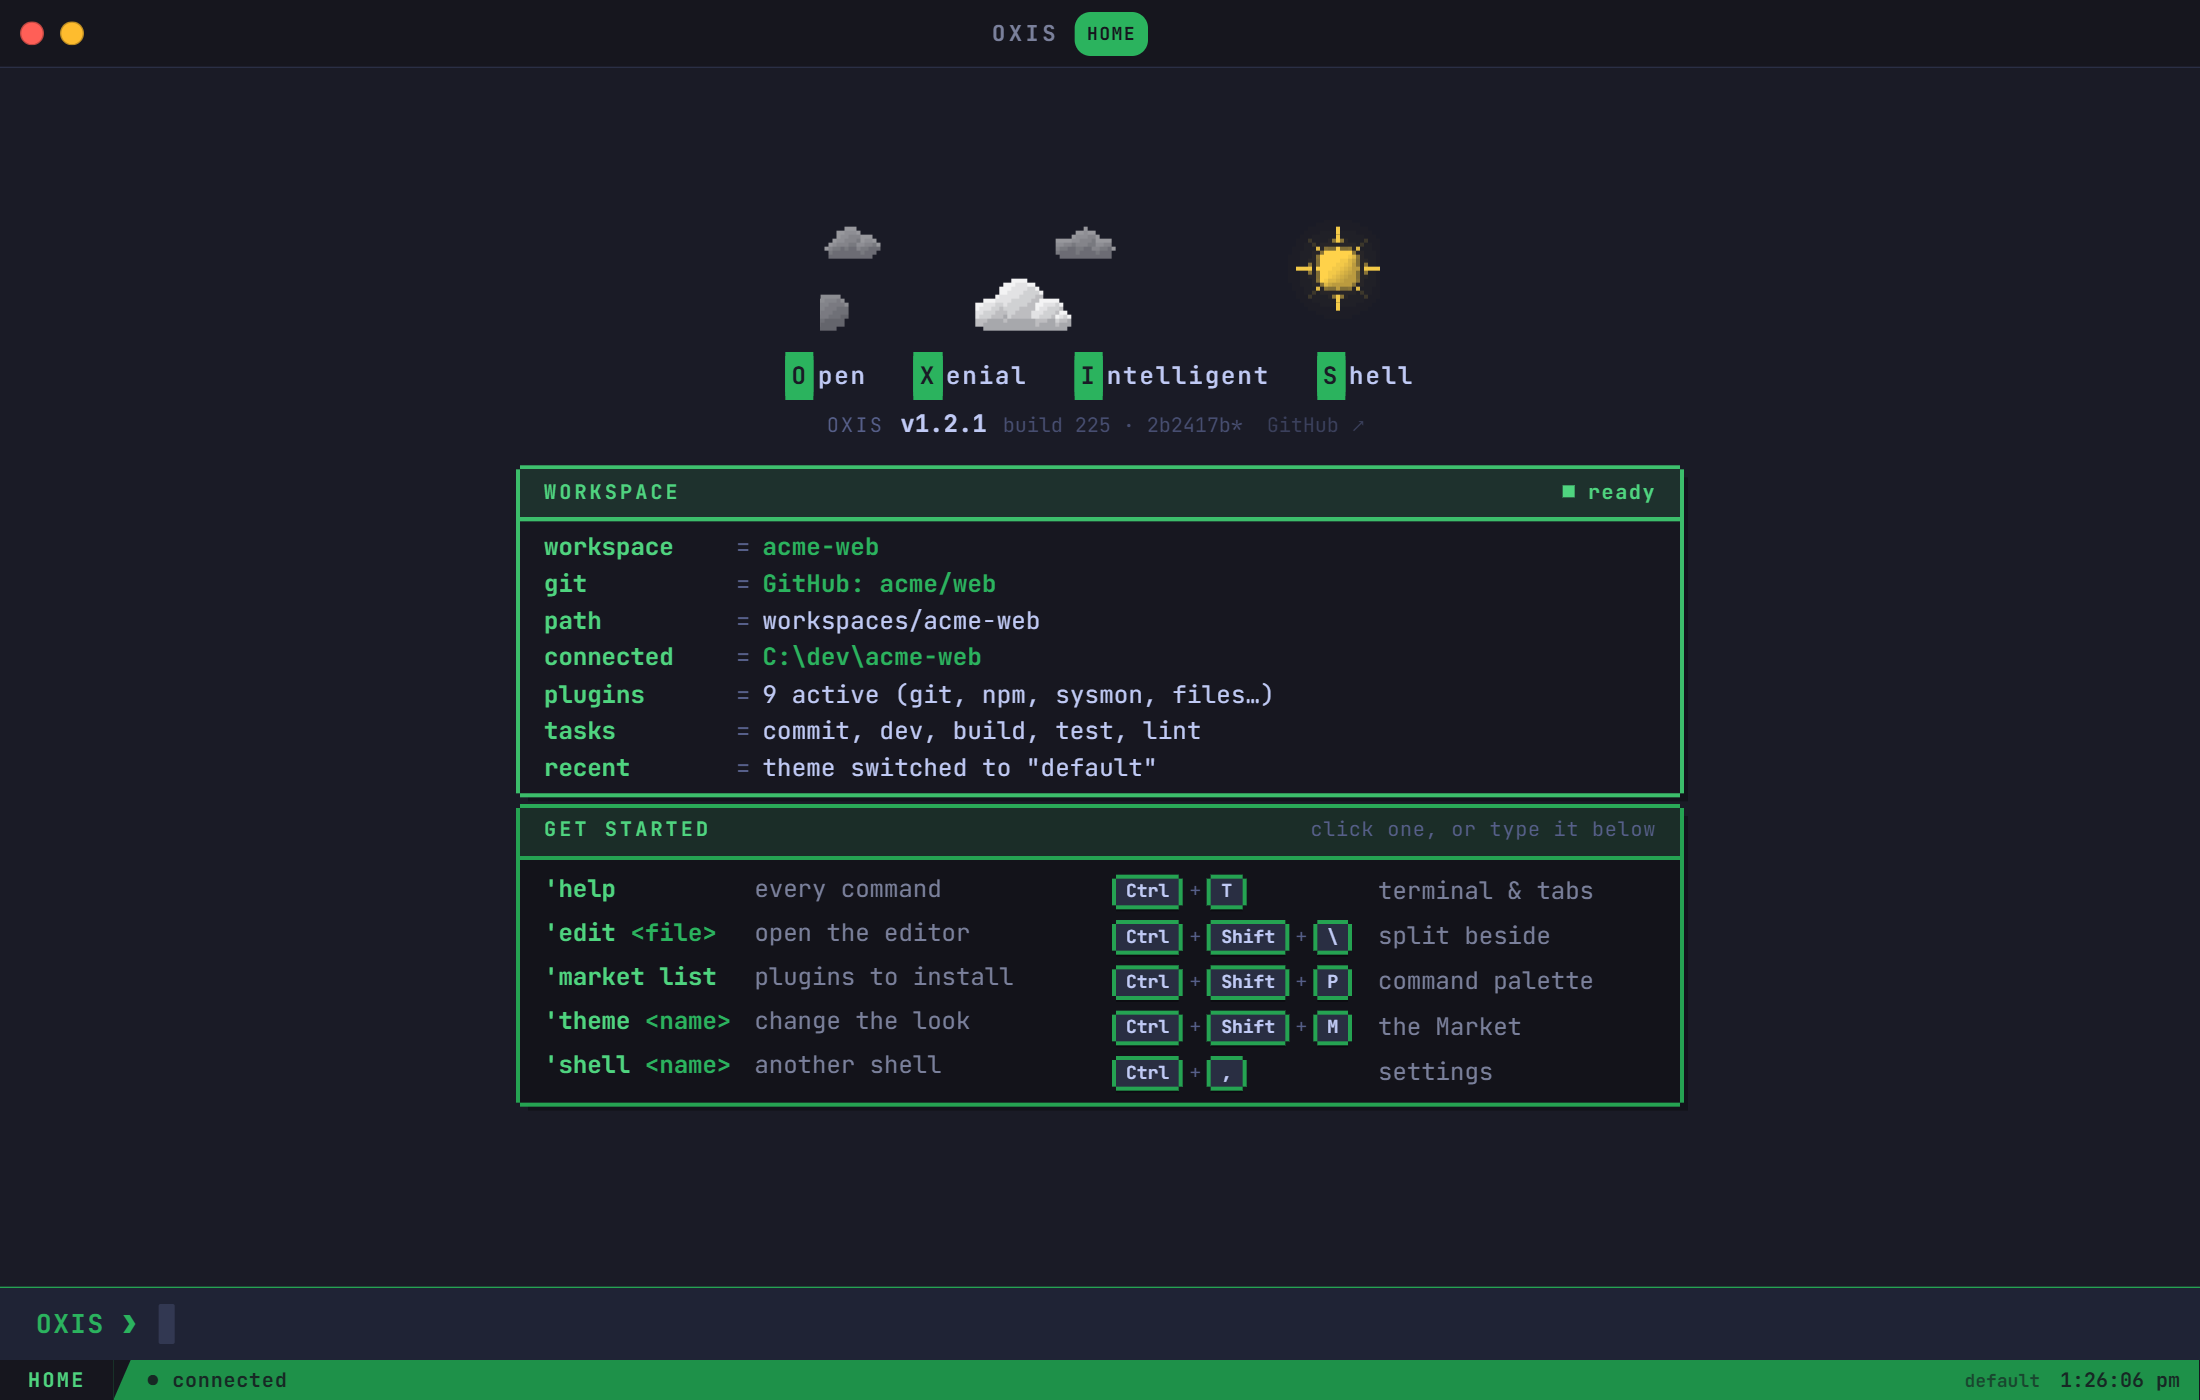
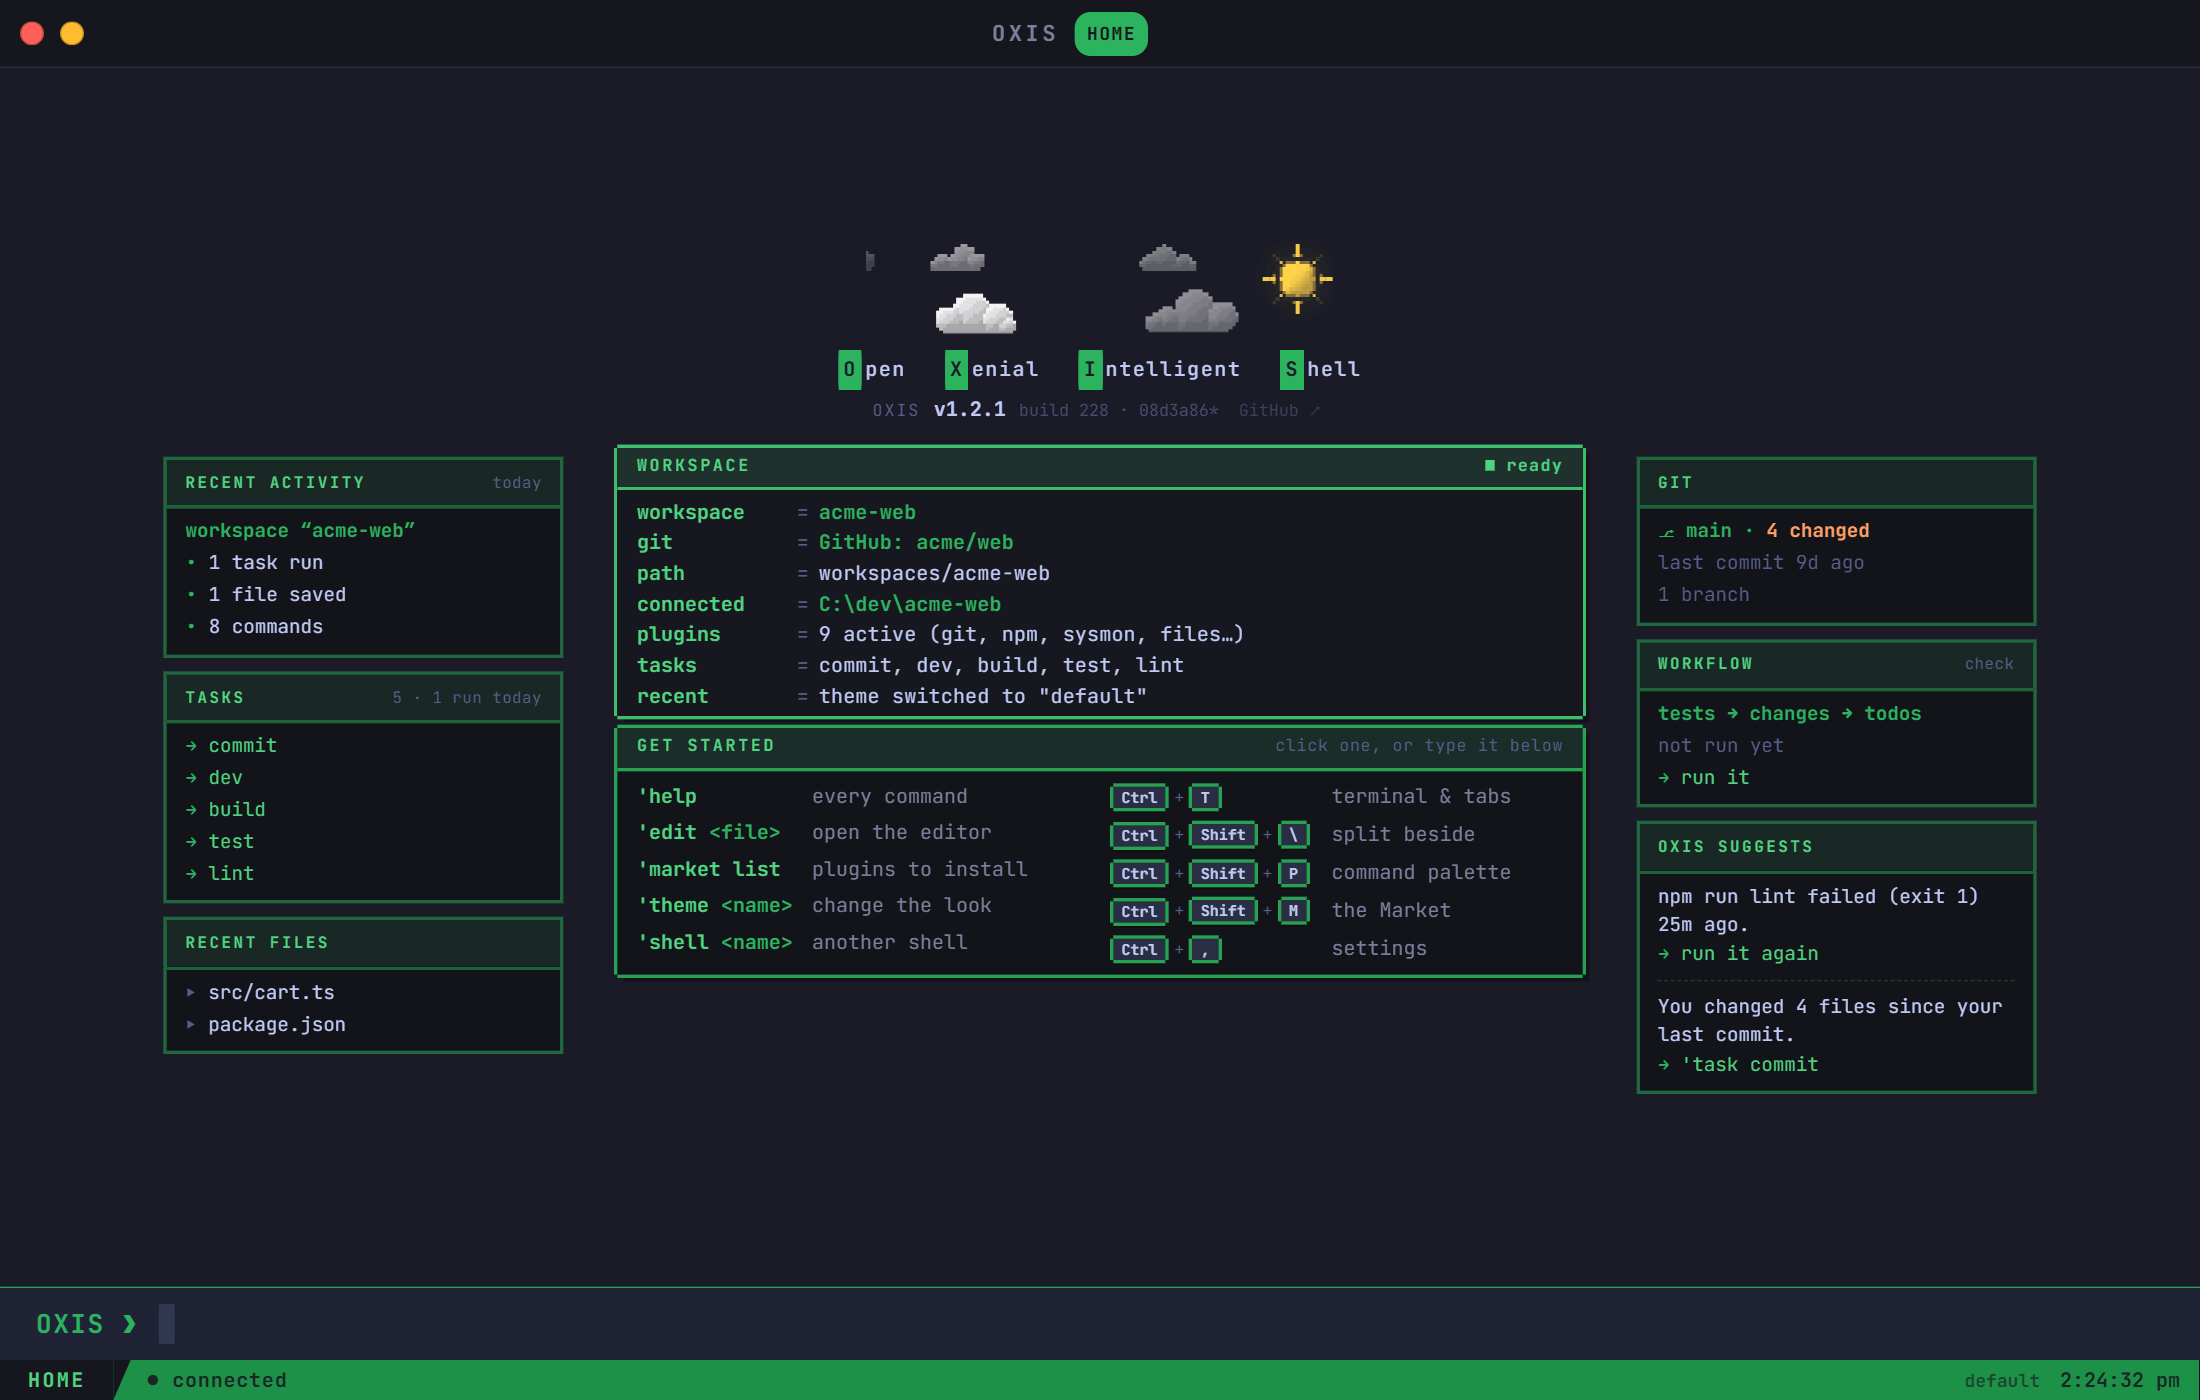
Home keeps some air around its insight cards; demo and screenshots show them

diff --git a/cloudflare/index.html b/cloudflare/index.html
@@ -1855,8 +1855,8 @@ $('#codeCopy').addEventListener('click', async e => {
 });
 
 const SHOTS = [
-  ['demo', 'Recorded', 'Recorded from the app, not mocked up: Home under its pixel-art sky, git in the real shell, quick select copying a hash with two keys, the editor catching a mistake and finishing a name, Vim keys and the file tree, a split with the tests passing and one command broadcast to both panes, an image in the output, triggers lighting up the log lines that matter, games that animate and ask, live monitoring stopped with Ctrl+C, the Settings window, and a theme switch.', 102000],
-  ['app-home', 'Home', 'Home: the active workspace, its git remote, plugins and tasks at a glance, under a pixel-art sky.'],
+  ['demo', 'Recorded', 'Recorded from the app, not mocked up: Home under its pixel-art sky with its insight cards, git in the real shell, quick select copying a hash with two keys, the editor catching a mistake and finishing a name, Vim keys and the file tree, a split with the tests passing and one command broadcast to both panes, an image in the output, triggers lighting up the log lines that matter, games that animate and ask, live monitoring stopped with Ctrl+C, the Settings window, and a theme switch.', 102000],
+  ['app-home', 'Home', 'Home: the active workspace under a pixel-art sky, with insight cards that follow it — today's activity, tasks and recent files; Git, the workflow and what OXIS suggests next.'],
   ['app-prompt', 'Prompt', "Tab completes in any shell — here cmd listing the npm scripts and finishing a folder — history suggests the rest of a command as you type, and right-clicking + opens a tab with another shell."],
   ['app-panes', 'Split panes', 'Tabs and split panes: git on the left, the tests on the right, each its own shell. New ones open in the folder you are in.'],
   ['app-search', 'Search', 'Search in files (Ctrl+Shift+F): every match in the project, grouped by file.'],

diff --git a/frontend/src/App.tsx b/frontend/src/App.tsx
@@ -8366,10 +8366,13 @@ function Home({ currentTheme, onTheme, onOpenThemeEditor, onOpenPluginCreator, o
       const roomW = box.clientWidth - parseFloat(style.paddingLeft) - parseFloat(style.paddingRight);
       if (!natural || room <= 0) return;
       const sides = !!inner.querySelector(".ins-col");
-      const stack = sides && roomW < HOME_WIDE * 0.8;
+      const stack = sides && roomW * 0.88 < HOME_WIDE * 0.78;
       setStacked(s => (s !== stack ? stack : s));
       const wide = !sides ? Infinity : stack ? HOME_NARROW : HOME_WIDE;
-      const next = Math.max(0.6, Math.min(1, room / natural, roomW / wide));
+      // With the cards, keep some air around it rather than filling the
+      // window edge to edge.
+      const air = sides ? 0.88 : 1;
+      const next = Math.max(0.6, Math.min(1, room * (sides ? 0.95 : 1) / natural, roomW * air / wide));
       setFit(f => (Math.abs(f - next) > 0.01 ? next : f));
     };
     measure();

diff --git a/README.md b/README.md
@@ -40,7 +40,7 @@
 
 <br><br>
 
-<img src="assets/demo.gif" width="100%" alt="A real OXIS session: Home under a pixel-art sun and drifting clouds; git log and status in the real shell, then quick select labelling the hashes and paths on screen and copying one; the editor catching a missing bracket as it's typed, suggesting a function name, Vim's Visual mode and the file tree's right-click menu; a split with the project's tests passing and one command broadcast to both panes; an image shown in the output with 'imgcat; triggers highlighting an ERROR line and the server's listening on line; installing games from the Market, a die that tumbles and asks to roll again, a pokie machine's spinning reels; live CPU and memory stopped with Ctrl+C; the Settings window searched for sound; and a switch to the ember theme">
+<img src="assets/demo.gif" width="100%" alt="A real OXIS session: Home under a pixel-art sun and drifting clouds, with its insight cards (activity, tasks, files, Git, workflow, suggestions); git log and status in the real shell, then quick select labelling the hashes and paths on screen and copying one; the editor catching a missing bracket as it's typed, suggesting a function name, Vim's Visual mode and the file tree's right-click menu; a split with the project's tests passing and one command broadcast to both panes; an image shown in the output with 'imgcat; triggers highlighting an ERROR line and the server's listening on line; installing games from the Market, a die that tumbles and asks to roll again, a pokie machine's spinning reels; live CPU and memory stopped with Ctrl+C; the Settings window searched for sound; and a switch to the ember theme">
 
 <sub>▲ Recorded from the app itself: every frame is OXIS running those commands in a real project.</sub>
 
@@ -182,7 +182,7 @@ itself into your editor as it's written. See the [Lua API](#lua-api).
 | Your shell in full colour, with `'` commands and one prompt | The editor catches a mistake as you type and suggests words (`'edit src/cart.ts`) |
 | <img src="assets/screenshots/app-panes.png" alt="Two tabs, the first split into two panes: git log and status on the left, the project's tests passing on the right"> | <img src="assets/screenshots/app-search.png" alt="Search in files over the editor: five matches for subtotal in two files, each highlighted"> |
 | Tabs and split panes, each its own shell (buttons at a pane's top right, or right-click) | Search in files (Ctrl+Shift+F) |
-| <img src="assets/screenshots/app-home.png" alt="Home: a pixel-art sun and clouds over the workspace panel and the get-started list"> | <img src="assets/screenshots/app-palette.png" alt="The command palette over the terminal"> |
+| <img src="assets/screenshots/app-home.png" alt="Home: a pixel-art sun and clouds over the workspace panel and the get-started list, with insight cards on both sides: recent activity, tasks and recent files; Git, the workflow and suggestions"> | <img src="assets/screenshots/app-palette.png" alt="The command palette over the terminal"> |
 | Home, under a pixel-art sky that follows the time of day | The command palette (Ctrl+Shift+P) |
 | <img src="assets/screenshots/app-version.png" alt="'version showing the build number, commit, tag, channel and update status"> | <img src="assets/screenshots/app-prompt.png" alt="A cmd tab: Tab listing the npm scripts and finishing cd src/, a history suggestion dim in the prompt, and the new-tab shell menu open"> |
 | `'version` — the exact build you're running | Tab completion in any shell (here cmd), history suggestions, and a tab with another shell |
